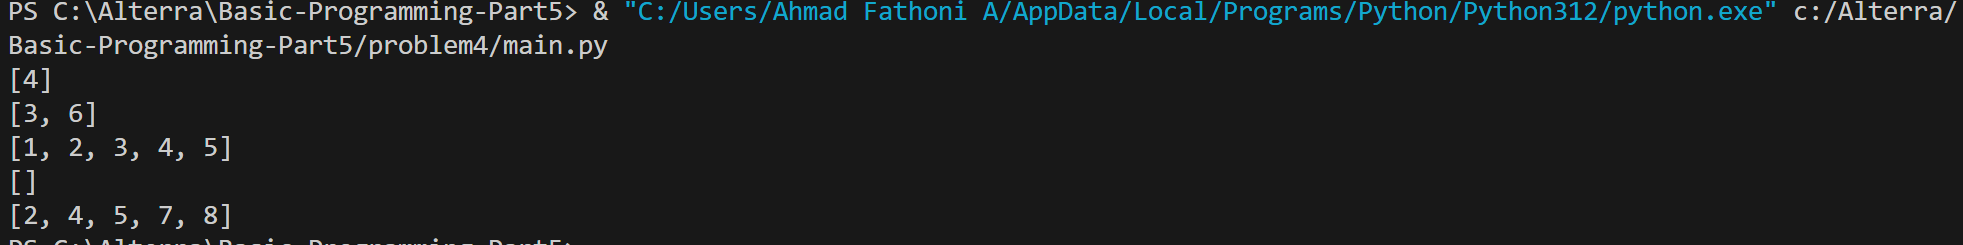
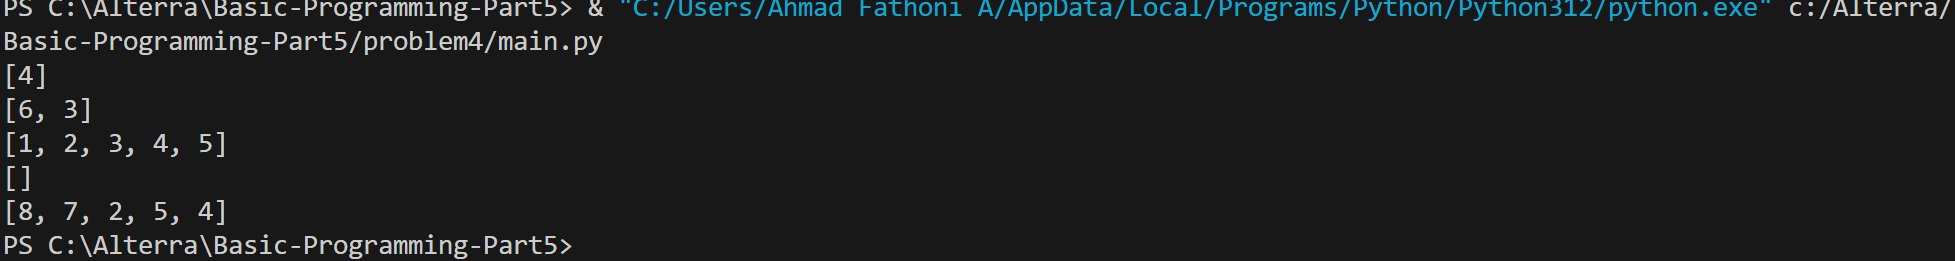
push

Changed region(s): [[0.0, 0.0, 0.9985, 1.0]]

diff --git a/problem4/main.py b/problem4/main.py
@@ -1,13 +1,12 @@
 def muncul_sekali(angka):
     angka_list = [int(x) for x in angka]
-    myset = set()
+    pattern = []
     
-    for angka in angka_list:
-        if angka_list.count(angka) == 1:
-            myset.add(angka)
+    for x in angka_list:
+        if angka_list.count(x) == 1:
+            pattern.append(x)
             
-    return list(myset)
-        
+    return pattern
 
 if __name__ == '__main__':
     print(muncul_sekali("1234123")) # [4]
